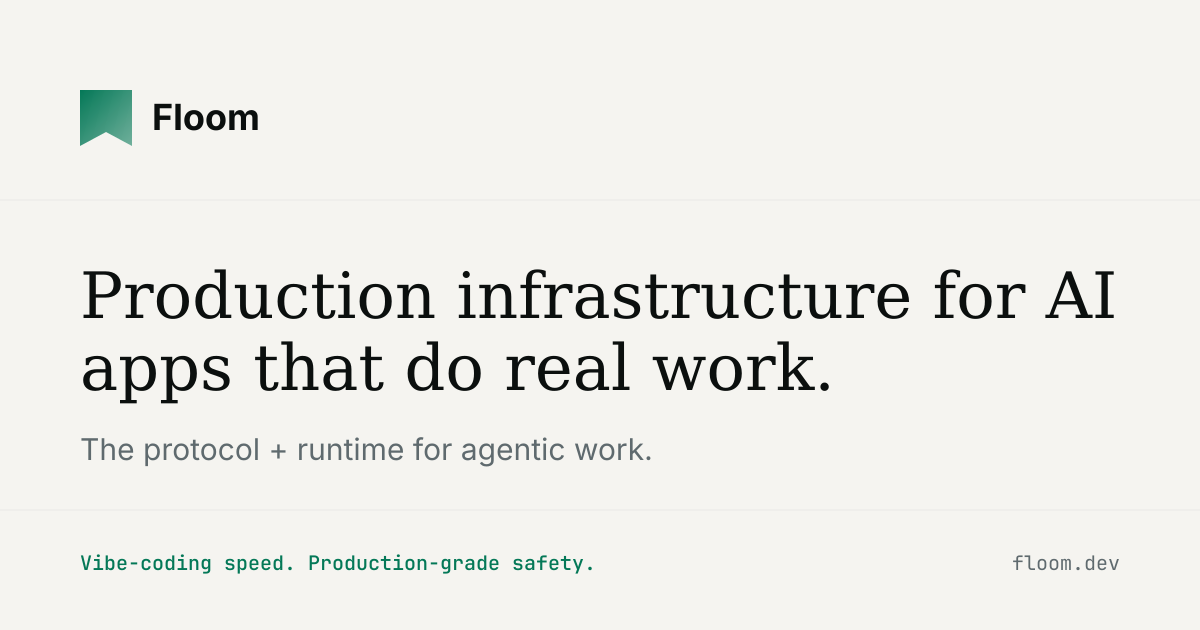
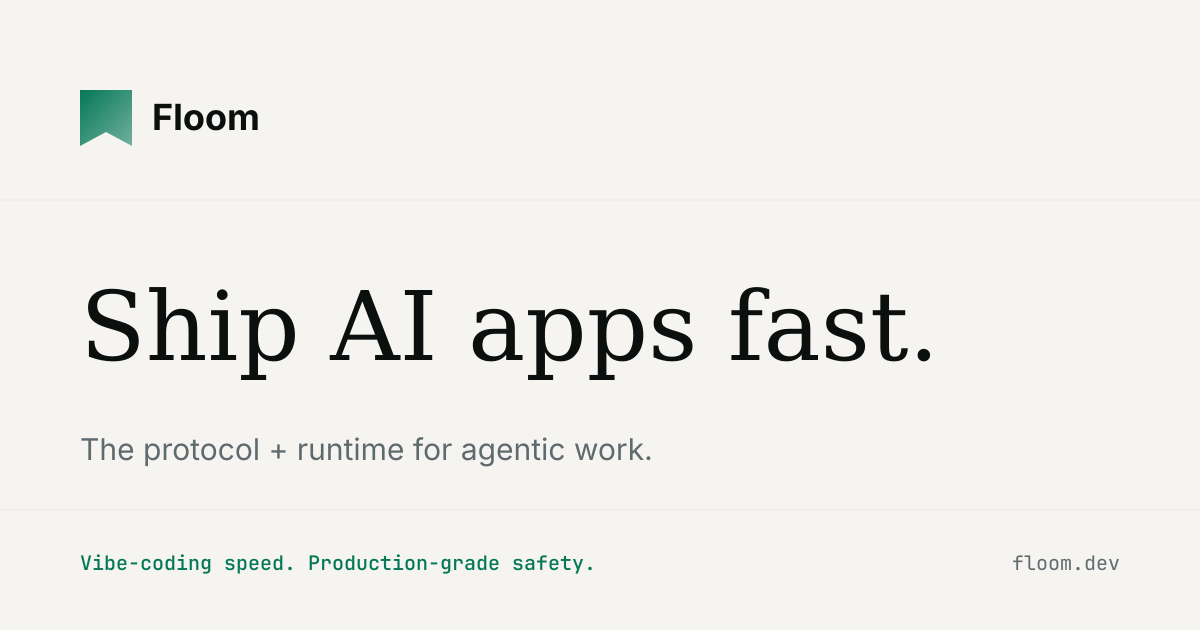
feat(copy): H1 swap — Ship AI apps fast
Federico unlocked the new H1. Swap "Production infrastructure for AI
apps that do real work." → "Ship AI apps fast." across every surface:
landing hero, SSR title, meta/OG/Twitter tags, JSON-LD, SPA fallback,
noscript block, LoginPage right column, OG card (server-rendered SVG
and public template), and regenerate og-main.png (1200x630).

Sub ("The protocol + runtime for agentic work.") and accent
("Vibe-coding speed. Production-grade safety.") unchanged — still
locked. Page-title variant uses dot-separator: "Ship AI apps fast · Floom".

Files:
- apps/web/src/pages/CreatorHeroPage.tsx (H1 + document.title)
- apps/web/src/pages/LoginPage.tsx (right-column heading)
- apps/web/index.html (title, meta description, og/twitter titles
  and image alts, JSON-LD description, SPA fallback + noscript H1)
- apps/server/src/index.ts (LANDING_TITLE SSR rewriter)
- apps/server/src/routes/og.ts (renderMainSvg H1 + slug fallback desc)
- apps/web/public/og-main-template.svg (source for og-main.png)
- apps/web/public/og-main.png (regenerated via rsvg-convert)

Changed region(s): [[0.0617, 0.4222, 0.925, 0.6635]]

diff --git a/apps/web/index.html b/apps/web/index.html
@@ -6,8 +6,8 @@
     <meta name="theme-color" content="#047857" />
     <meta name="color-scheme" content="light" />
 
-    <title>Floom · Production infrastructure for AI apps that do real work</title>
-    <meta name="description" content="Production infrastructure for AI apps that do real work. The protocol + runtime for agentic work. Vibe-coding speed. Production-grade safety. Paste your app's link and get a Claude tool, a page to share, a command-line, and a clean URL your teammates can hit. Sign-in, history, and all the boring stuff are handled." />
+    <title>Ship AI apps fast · Floom</title>
+    <meta name="description" content="Ship AI apps fast. The protocol + runtime for agentic work. Vibe-coding speed. Production-grade safety. Paste your app's link and get a Claude tool, a page to share, a command-line, and a clean URL your teammates can hit. Sign-in, history, and all the boring stuff are handled." />
     <link rel="canonical" href="/" />
 
     <link rel="icon" type="image/svg+xml" href="/floom-mark.svg" />
@@ -19,18 +19,18 @@
     <meta property="og:type" content="website" />
     <meta property="og:site_name" content="Floom" />
     <meta property="og:url" content="/" />
-    <meta property="og:title" content="Floom · Production infrastructure for AI apps that do real work" />
+    <meta property="og:title" content="Ship AI apps fast · Floom" />
     <meta property="og:description" content="The protocol + runtime for agentic work. Vibe-coding speed. Production-grade safety. Paste your app's link and get a Claude tool, a page to share, a command-line, and a clean URL. Sign-in, history, and all the boring stuff are handled." />
     <meta property="og:image" content="/og-main.png" />
     <meta property="og:image:width" content="1200" />
     <meta property="og:image:height" content="630" />
-    <meta property="og:image:alt" content="Floom. Production infrastructure for AI apps that do real work. Vibe-coding speed. Production-grade safety." />
+    <meta property="og:image:alt" content="Floom. Ship AI apps fast. Vibe-coding speed. Production-grade safety." />
 
     <meta name="twitter:card" content="summary_large_image" />
-    <meta name="twitter:title" content="Floom · Production infrastructure for AI apps that do real work" />
+    <meta name="twitter:title" content="Ship AI apps fast · Floom" />
     <meta name="twitter:description" content="The protocol + runtime for agentic work. Vibe-coding speed. Production-grade safety. Paste your app's link and get a Claude tool, a page to share, a command-line, and a URL your teammates can hit." />
     <meta name="twitter:image" content="/og-main.png" />
-    <meta name="twitter:image:alt" content="Floom. Production infrastructure for AI apps that do real work. Vibe-coding speed. Production-grade safety." />
+    <meta name="twitter:image:alt" content="Floom. Ship AI apps fast. Vibe-coding speed. Production-grade safety." />
 
     <link rel="preconnect" href="https://fonts.googleapis.com" />
     <link rel="preconnect" href="https://fonts.gstatic.com" crossorigin />
@@ -50,7 +50,7 @@
       "name": "Floom",
       "applicationCategory": "DeveloperApplication",
       "operatingSystem": "Any",
-      "description": "Production infrastructure for AI apps that do real work. The protocol + runtime for agentic work. Vibe-coding speed. Production-grade safety. Paste your app's link and get a Claude tool, a page to share, a command-line, a chat interface, and a clean URL your teammates can hit. Sign-in, history, and all the boring stuff are built in. Open source and free to run on your own machine, or use Floom Cloud.",
+      "description": "Ship AI apps fast. The protocol + runtime for agentic work. Vibe-coding speed. Production-grade safety. Paste your app's link and get a Claude tool, a page to share, a command-line, a chat interface, and a clean URL your teammates can hit. Sign-in, history, and all the boring stuff are built in. Open source and free to run on your own machine, or use Floom Cloud.",
       "url": "/",
       "offers": { "@type": "Offer", "price": "0", "priceCurrency": "USD" },
       "author": { "@type": "Person", "name": "Federico De Ponte", "url": "https://github.com/federicodeponte" }
@@ -62,7 +62,7 @@
       <!-- SPA fallback. Rendered before React hydrates so crawlers and curl
            see the locked hero copy. Matches landing.floom.dev exactly. -->
       <div style="display:none" data-spa-fallback>
-        <h1>Production infrastructure for AI apps that do real work.</h1>
+        <h1>Ship AI apps fast.</h1>
         <p>The protocol + runtime for agentic work.</p>
         <p><strong>Vibe-coding speed. Production-grade safety.</strong></p>
         <p>Paste your app's link. Get a Claude tool, a page to share, a command-line, a chat interface, and a clean URL. Sign-in, history, and all the boring stuff are built in.</p>
@@ -70,7 +70,7 @@
       </div>
     </div>
     <noscript>
-      <h1>Production infrastructure for AI apps that do real work.</h1>
+      <h1>Ship AI apps fast.</h1>
       <p>The protocol + runtime for agentic work.</p>
       <p><strong>Vibe-coding speed. Production-grade safety.</strong></p>
       <p>Paste your app's link. Get a Claude tool, a page to share, a command-line, a chat interface, and a clean URL. Sign-in, history, and all the boring stuff are built in.</p>

diff --git a/apps/server/src/routes/og.ts b/apps/server/src/routes/og.ts
@@ -107,8 +107,7 @@ function renderMainSvg(): string {
     <path d="M0 0 L52 0 L52 56 L26 42 L0 56 Z" fill="url(#accent)"/>
     <text x="72" y="40" font-family="Inter, 'Helvetica Neue', Arial, sans-serif" font-weight="700" font-size="36" fill="${ink}">Floom</text>
   </g>
-  <text x="80" y="318" font-family="'DM Serif Display', Georgia, serif" font-size="64" fill="${ink}">Production infrastructure for AI</text>
-  <text x="80" y="390" font-family="'DM Serif Display', Georgia, serif" font-size="64" fill="${ink}">apps that do real work.</text>
+  <text x="80" y="360" font-family="'DM Serif Display', Georgia, serif" font-size="96" fill="${ink}">Ship AI apps fast.</text>
   <text x="80" y="460" font-family="Inter, 'Helvetica Neue', Arial, sans-serif" font-size="30" fill="${muted}">The protocol + runtime for agentic work.</text>
   <text x="80" y="${HEIGHT - 60}" font-family="'JetBrains Mono', 'Menlo', monospace" font-size="20" fill="${accent}" font-weight="600">Vibe-coding speed. Production-grade safety.</text>
   <text x="${WIDTH - 80}" y="${HEIGHT - 60}" font-family="'JetBrains Mono', 'Menlo', monospace" font-size="20" fill="${muted}" text-anchor="end">floom.dev</text>
@@ -147,7 +146,7 @@ ogRouter.get('/:slugPng{[a-z0-9][a-z0-9-]*\\.svg}', (c) => {
     // sensible in previewers rather than a 404 image.
     copy = {
       title: 'Floom',
-      description: 'Production infrastructure for AI apps that do real work.',
+      description: 'Ship AI apps fast.',
       author: null,
     };
   } else {

diff --git a/apps/web/src/pages/CreatorHeroPage.tsx b/apps/web/src/pages/CreatorHeroPage.tsx
@@ -148,8 +148,7 @@ export function CreatorHeroPage() {
   const [publishedSlug, setPublishedSlug] = useState<string | null>(null);
 
   useEffect(() => {
-    document.title =
-      'Floom · Production infrastructure for AI apps that do real work';
+    document.title = 'Ship AI apps fast · Floom';
     api
       .getHub()
       .then((apps) => {
@@ -400,7 +399,7 @@ export function CreatorHeroPage() {
                 textWrap: 'balance' as unknown as 'balance',
               }}
             >
-              Production infrastructure for AI apps that do real work.
+              Ship AI apps fast.
             </h1>
 
             {/* Accent line (locked copy). Goosebumps pass: 17->19 so the

diff --git a/apps/server/src/index.ts b/apps/server/src/index.ts
@@ -627,7 +627,7 @@ if (webDist) {
   // updates don't reach non-JS crawlers (social previewers, SEO bots,
   // curl/wget). Rewrite the <title> tag per-route in the same middleware
   // that already handles /p/:slug OG rewriting.
-  const LANDING_TITLE = 'Floom · Production infrastructure for AI apps that do real work';
+  const LANDING_TITLE = 'Ship AI apps fast · Floom';
   function escapeTitle(t: string): string {
     // <title> is #PCDATA so only < & > really matter. We also strip newlines
     // defensively so a row with a stray \n doesn't break the document.

diff --git a/apps/web/src/pages/LoginPage.tsx b/apps/web/src/pages/LoginPage.tsx
@@ -431,7 +431,7 @@ export function LoginPage() {
             color: 'var(--ink)',
           }}
         >
-          Production infrastructure for AI apps that do real work.
+          Ship AI apps fast.
         </h2>
         <ul
           style={{
